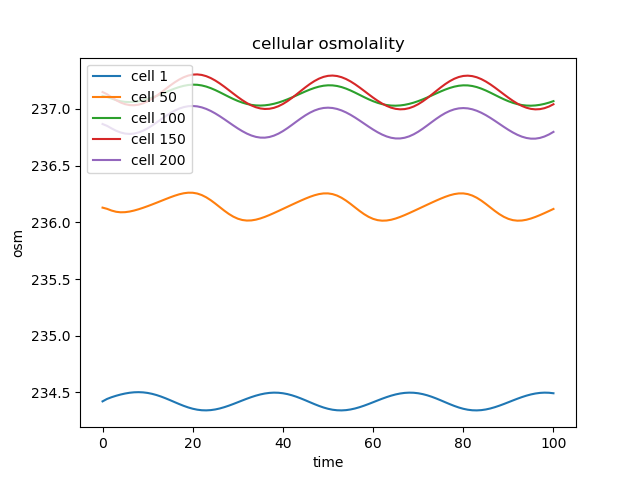
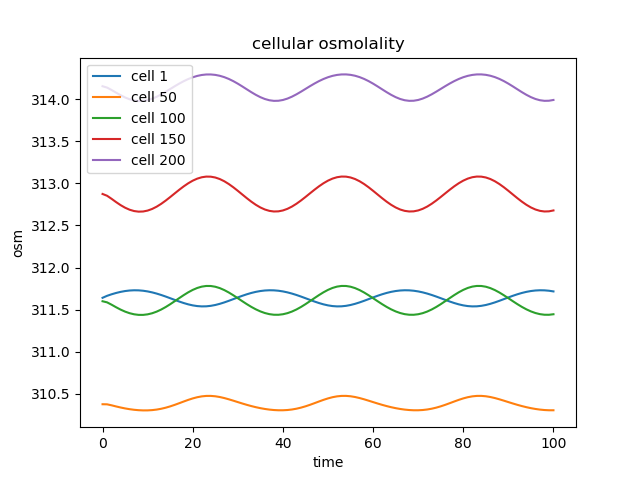
plot more about LIS
plot more about LIS

diff --git a/time waterflow/plot.py b/time waterflow/plot.py
@@ -22,6 +22,23 @@ for s in range(15):
     plt.show()
 
 for s in range(15):
+    filename = 'malePT_con_of_' + solute[s] + '_in_LIS.txt'
+    cell = np.zeros(N * Ncell).reshape(Ncell, N)
+    cell=np.loadtxt(filename)
+    plt.figure()
+    plt.plot(cell[1], label="cell 1")
+    plt.plot(cell[50], label="cell 50")
+    plt.plot(cell[100], label="cell 100")
+    plt.plot(cell[150], label="cell 150")
+    plt.plot(cell[200], label="cell 200")
+    plt.title('LIS ' + solute[s] + ' concentration')
+    plt.legend(loc="upper left")
+    plt.xlabel("time")
+    plt.ylabel("conc")
+    plt.savefig('plot figure\LIS concentration\conc of ' + solute[s] + ' in LIS')
+    plt.show()
+
+for s in range(15):
     filename = 'malePT_con_of_' + solute[s] + '_in_lumen.txt'
     cell = np.zeros(N * Ncell).reshape(Ncell, N)
     cell = np.loadtxt(filename)
@@ -39,8 +56,14 @@ for s in range(15):
     plt.show()
 ###################### osmolality
 filename ='malePT_osmolality_in_Cell.txt'
+file='malePT_volume_of_cell.txt'
+volref=10
 cell = np.zeros(N * Ncell).reshape(Ncell, N)
+vol=np.loadtxt(file)
 cell=np.loadtxt(filename)
+for i in range(Ncell):
+    for j in range(N):
+        cell[i][j]=cell[i][j]+60*volref/vol[i][j]
 plt.figure()
 plt.plot(cell[1], label="cell 1")
 plt.plot(cell[50], label="cell 50")
@@ -203,6 +226,22 @@ plt.xlabel("time")
 plt.ylabel("cellular vol")
 plt.savefig('plot figure\cellular volume')
 plt.show()
+##############LIS volume
+file = open('malePT_volume_of_LIS.txt', 'r')
+cell = np.zeros(N * Ncell).reshape(Ncell, N)
+cell=np.loadtxt(file)
+plt.figure()
+plt.plot(cell[1], label="cell 1")
+plt.plot(cell[50], label="cell 50")
+plt.plot(cell[100], label="cell 100")
+plt.plot(cell[150], label="cell 150")
+plt.plot(cell[200], label="cell 200")
+plt.title('LIS volume')
+plt.legend(loc="upper left")
+plt.xlabel("time")
+plt.ylabel("LIS vol")
+plt.savefig('plot figure\LIS volume')
+plt.show()
 ###################### flux
 for s in range(15):
     filename = 'malePT_flux_of_' + solute[s] + '_lumen_cell.txt'
@@ -274,55 +313,76 @@ for s in range(15):
     plt.ylabel("solute amount")
     plt.savefig('plot figure\cellular solute\ ' + solute[s] + ' whole')
     plt.show()
-
+#####################LIS amount
+for s in range(15):
+    file1 = 'malePT_volume_of_LIS.txt'
+    file2 = 'malePT_con_of_' + solute[s] + '_in_LIS.txt'
+    cell = np.zeros(N * Ncell).reshape(Ncell, N)
+    cell1=np.loadtxt(file1)
+    cell2=np.loadtxt(file2)
+    for i in range(Ncell):
+        for j in range(N):
+            cell[i][j] = cell1[i][j]*cell2[i][j]
+    plt.figure()
+    plt.plot(cell[1], label="cell 1")
+    plt.plot(cell[50], label="cell 50")
+    plt.plot(cell[100], label="cell 100")
+    plt.plot(cell[150], label="cell 150")
+    plt.plot(cell[200], label="cell 200")
+    plt.title('LIS ' + solute[s] + ' whole')
+    plt.legend(loc="upper left")
+    plt.xlabel("time")
+    plt.ylabel("LIS amount")
+    plt.savefig('plot figure\LIS solute\ ' + solute[s] + ' whole')
+    plt.show()
 ###################### water flux
-    file = 'malePT_flux_of_water_cell_bath.txt'
-    cell = np.zeros(N * Ncell).reshape(Ncell, N)
-    cell=np.loadtxt(file)
-    plt.figure()
-    plt.plot(cell[1], label="cell 1")
-    plt.plot(cell[50], label="cell 50")
-    plt.plot(cell[100], label="cell 100")
-    plt.plot(cell[150], label="cell 150")
-    plt.plot(cell[200], label="cell 200")
-    plt.title('water flux cell-bath')
-    plt.legend(loc="upper left")
-    plt.xlabel("time")
-    plt.ylabel("flux")
-    plt.savefig('plot figure\Flux cell bath\water flux')
-    plt.show()
+file = 'malePT_flux_of_water_cell_bath.txt'
+cell = np.zeros(N * Ncell).reshape(Ncell, N)
+cell=np.loadtxt(file)
+plt.figure()
+plt.plot(cell[1], label="cell 1")
+plt.plot(cell[50], label="cell 50")
+plt.plot(cell[100], label="cell 100")
+plt.plot(cell[150], label="cell 150")
+plt.plot(cell[200], label="cell 200")
+plt.title('water flux cell-bath')
+plt.legend(loc="upper left")
+plt.xlabel("time")
+plt.ylabel("flux")
+plt.savefig('plot figure\Flux cell bath\water flux')
+plt.show()
 
-    file = 'malePT_flux_of_water_cell_LIS.txt'
-    cell = np.zeros(N * Ncell).reshape(Ncell, N)
-    cell=np.loadtxt(file)
-    plt.figure()
-    plt.plot(cell[1], label="cell 1")
-    plt.plot(cell[50], label="cell 50")
-    plt.plot(cell[100], label="cell 100")
-    plt.plot(cell[150], label="cell 150")
-    plt.plot(cell[200], label="cell 200")
-    plt.title('water flux cell-LIS')
-    plt.legend(loc="upper left")
-    plt.xlabel("time")
-    plt.ylabel("flux")
-    plt.savefig('plot figure\Flux cell LIS\water flux')
-    plt.show()
+file = 'malePT_flux_of_water_cell_LIS.txt'
+cell = np.zeros(N * Ncell).reshape(Ncell, N)
+cell=np.loadtxt(file)
+plt.figure()
+plt.plot(cell[1], label="cell 1")
+plt.plot(cell[50], label="cell 50")
+plt.plot(cell[100], label="cell 100")
+plt.plot(cell[150], label="cell 150")
+plt.plot(cell[200], label="cell 200")
+plt.title('water flux cell-LIS')
+plt.legend(loc="upper left")
+plt.xlabel("time")
+plt.ylabel("flux")
+plt.savefig('plot figure\Flux cell LIS\water flux')
+plt.show()
 
-    file = 'malePT_flux_of_water_lumen_cell.txt'
-    cell = np.zeros(N * Ncell).reshape(Ncell, N)
-    cell=np.loadtxt(file)
-    plt.figure()
-    plt.plot(cell[1], label="cell 1")
-    plt.plot(cell[50], label="cell 50")
-    plt.plot(cell[100], label="cell 100")
-    plt.plot(cell[150], label="cell 150")
-    plt.plot(cell[200], label="cell 200")
-    plt.title('water flux lumen-cell')
-    plt.legend(loc="upper left")
-    plt.xlabel("time")
-    plt.ylabel("flux")
-    plt.savefig('plot figure\Flux lumen cell\water flux')
-    plt.show()
+file = 'malePT_flux_of_water_lumen_cell.txt'
+cell = np.zeros(N * Ncell).reshape(Ncell, N)
+cell=np.loadtxt(file)
+plt.figure()
+plt.plot(cell[1], label="cell 1")
+plt.plot(cell[50], label="cell 50")
+plt.plot(cell[100], label="cell 100")
+plt.plot(cell[150], label="cell 150")
+plt.plot(cell[200], label="cell 200")
+plt.title('water flux lumen-cell')
+plt.legend(loc="upper left")
+plt.xlabel("time")
+plt.ylabel("flux")
+plt.savefig('plot figure\Flux lumen cell\water flux')
+plt.show()
 
 ###################### solute difference
 for s in range(15):
